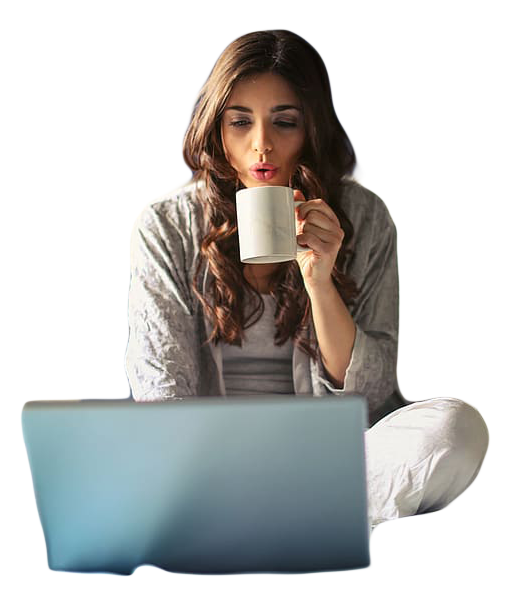
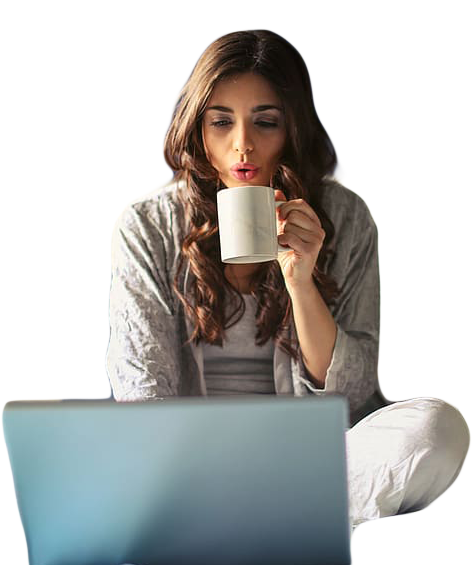
almost done desktop view

diff --git a/style.css b/style.css
@@ -260,9 +260,10 @@ footer {
 /* view for laptops and desktops */
 @media screen and (min-width: 900px) {
   header {
-    padding: 3% 10%;
+    padding: 2% 10%;
   }
   .box-containor {
+    margin-top: 0px;
     flex-direction: row;
     padding: 0px 10%;
     justify-content: space-between;
@@ -275,19 +276,39 @@ footer {
     font-size: 42px;
   }
   .box2 {
-    width: 30%;
+    width: 40%;
   }
   .containor-img-girl {
-    border-radius: 12px;
-    width:100%;
+    border-radius: 130px;
+    width: 210px;
+    height: 380px;
+    position: relative;
+    /* why it is going for opposite i dont know ,, flex end?? */
+    /* justify-content:flex-end;
+    align-items: flex-end;   */
+    /* object-fit: contain; */
+  }
+  .girl-image {
+    position: absolute;
+    bottom: 0px;
+    width: 275px;
     height: auto;
   }
-  .girl-image{
-    width: 90%;
-    height: auto;
+  .items-around-girl-right {
+    top: 110px;
+    right: 10px;
+    padding: 15px 35px 15px 15px;
   }
+  .items-around-girl-left {
+    position: absolute;
+    bottom: 105px;
+    padding: 15px 35px 15px 15px;
+    left: 0px;
+    z-index: 1;
+  }
+
   .grid {
-    margin-top: 10%;
+    margin-top: 55px;
     grid-template-columns: auto auto auto;
     padding: 0px 8% 8%;
     /* margin: 0px; */

diff --git a/index.html b/index.html
@@ -22,7 +22,7 @@
     <main>
         <div class="box-containor">
             <div class="box1">
-                <h1>Maximise skill,<br />minimum budget</h1>
+                <h1>Maximise skill,<br/>minimum budget</h1>
                 <p>
                     Ourem ipsum dolor sit amet consectetur distinctio veritatis fugit
                     recusandae hic perferendis, repellendus autem consectetur optio
